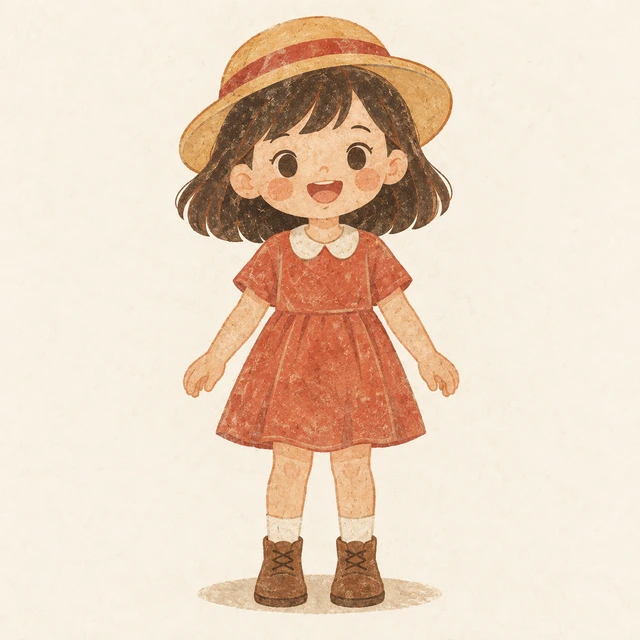
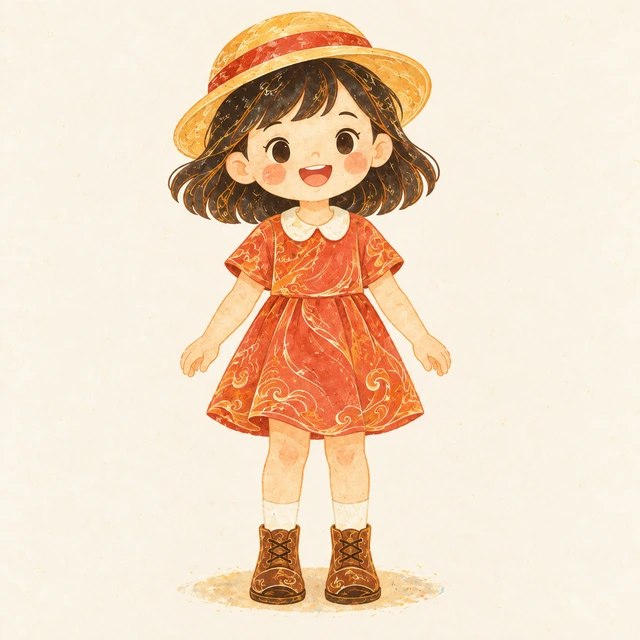
fix: match Dunhuang style references to mineral colors and gold linework

Changed region(s): [[0.25, 0.0, 0.7188, 0.9688]]

diff --git a/apps/api-core/src/picture-books/picture-book-styles.ts b/apps/api-core/src/picture-books/picture-book-styles.ts
@@ -25,7 +25,7 @@ const presets = [
   ["blue-printed-cloth","蓝印花布","靛蓝与本白的蓝印花布，防染印花般的线条和点纹，织物肌理与民间纹样装饰。"],
   ["tile-pottery","瓦当陶纹","瓦当与陶器纹样的浅浮雕造型，陶土赭色、云纹与几何线刻，朴拙温润的陶面肌理。"],
   ["woodblock-new-year","木板年画","民间木版年画的饱满套印色，清楚墨线与木版印痕，喜庆热闹、装饰性强的平面构图。"],
-  ["dunhuang-mural","敦煌壁画","敦煌壁画的矿物色与流畅线描，赭石、石青、石绿的古朴配色，斑驳墙面与装饰纹样。"]
+  ["dunhuang-mural","敦煌壁画","明亮橙金、朱砂与石青青绿矿物色，纤细金白线描、飘带祥云卷纹与细腻壁画肌理。"]
 ] as const;
 
 export const defaultPictureBookStyles: PictureBookStyle[] = presets.map(([id, name, description]) => ({

diff --git a/apps/api-core/src/picture-books/picture-book-character-assets.ts b/apps/api-core/src/picture-books/picture-book-character-assets.ts
@@ -42,6 +42,6 @@ export const officialCharacterImageUrls: Record<string, string> = {
   "girl/tile-pottery": "https://r.abeiai.com/picture-books/20261004-5c9bd44ad7f2cb30.webp",
   "boy/woodblock-new-year": "https://r.abeiai.com/picture-books/20261004-24616c32d59c7bf9.webp",
   "girl/woodblock-new-year": "https://r.abeiai.com/picture-books/20261004-9032edfc4829a15f.webp",
-  "boy/dunhuang-mural": "https://r.abeiai.com/picture-books/20261004-b5fbb78291a27bdf.webp",
-  "girl/dunhuang-mural": "https://r.abeiai.com/picture-books/20261004-254dc69216d8b24c.webp"
+  "boy/dunhuang-mural": "https://r.abeiai.com/picture-books/20261004-d0e03a0072d58e55.webp",
+  "girl/dunhuang-mural": "https://r.abeiai.com/picture-books/20261004-663e787a1a4e8372.webp"
 };

diff --git a/docs/picture-books/characters.md b/docs/picture-books/characters.md
@@ -47,6 +47,14 @@
 
 验证：`pnpm --filter @xueleai/web typecheck` 通过；R2和风格图片API返回内容与本地SHA-256一致；浏览器确认新版风格卡片加载。截图 `/tmp/abei-classic-oil-painterly-picker.png`。本次仅替换风格图及资产记录，未运行 build、全量 lint 或测试，无 migration/seed。
 
+## 2026-10-04 敦煌壁画参考更新
+
+依据用户提供的白鹿壁画样图，使用内置 imagegen 重绘敦煌壁画风格图及小男孩、小女孩两张官方角色图。采用明亮橙金、朱砂、石青和青绿矿物色，纤细金白线描、飘带祥云卷纹与细腻壁画肌理。风格图保留原女孩、小狗身份和森林布局，角色图保留正面全身居中、原发型与服饰。
+
+用户参考图保存于 `references/dunhuang-mural-style.webp`；实际输入的旧风格布局及角色身份图分别保存于 `references/dunhuang-mural-layout.webp`、`references/dunhuang-boy-identity.webp`、`references/dunhuang-girl-identity.webp`。生成提示词与参考路径记录于 `style-image-prompts.json`、`character-image-prompts.json`。三张640×640 WebP归档到 abeiai R2，更新风格和角色资产清单、官方角色地址及默认风格描述。本地系统配置仅更新 `dunhuang-mural` 的图片与描述，备份于 `/tmp/abei-dunhuang-reference-config-backup.json`。
+
+验证：`pnpm --filter @xueleai/web typecheck` 通过；绘本风格、角色、风格参考测试44项通过；三张R2及API容器内参考图与本地SHA-256一致；风格图片API返回新图；`docker compose -p abei build api-core` 通过，API容器健康。浏览器确认新版风格卡片与角色弹窗，截图 `/tmp/abei-dunhuang-reference-picker.png`、`/tmp/abei-dunhuang-reference-characters.png`。未运行全量 lint、全量测试及Web构建，无 migration/seed。
+
 ## 验证
 
 角色针对性测试覆盖风格变体选择、旧绘本图片快照、沟通提取及预选形象匹配、所有权、R2上传、同风格和身份图变更的并发保护。数据库 migration 先以真实数据库事务执行后回滚验证，再执行部署迁移。浏览器使用独立测试绘本验收选择、风格切换、上传、讨论提取、角色和页图生成。
